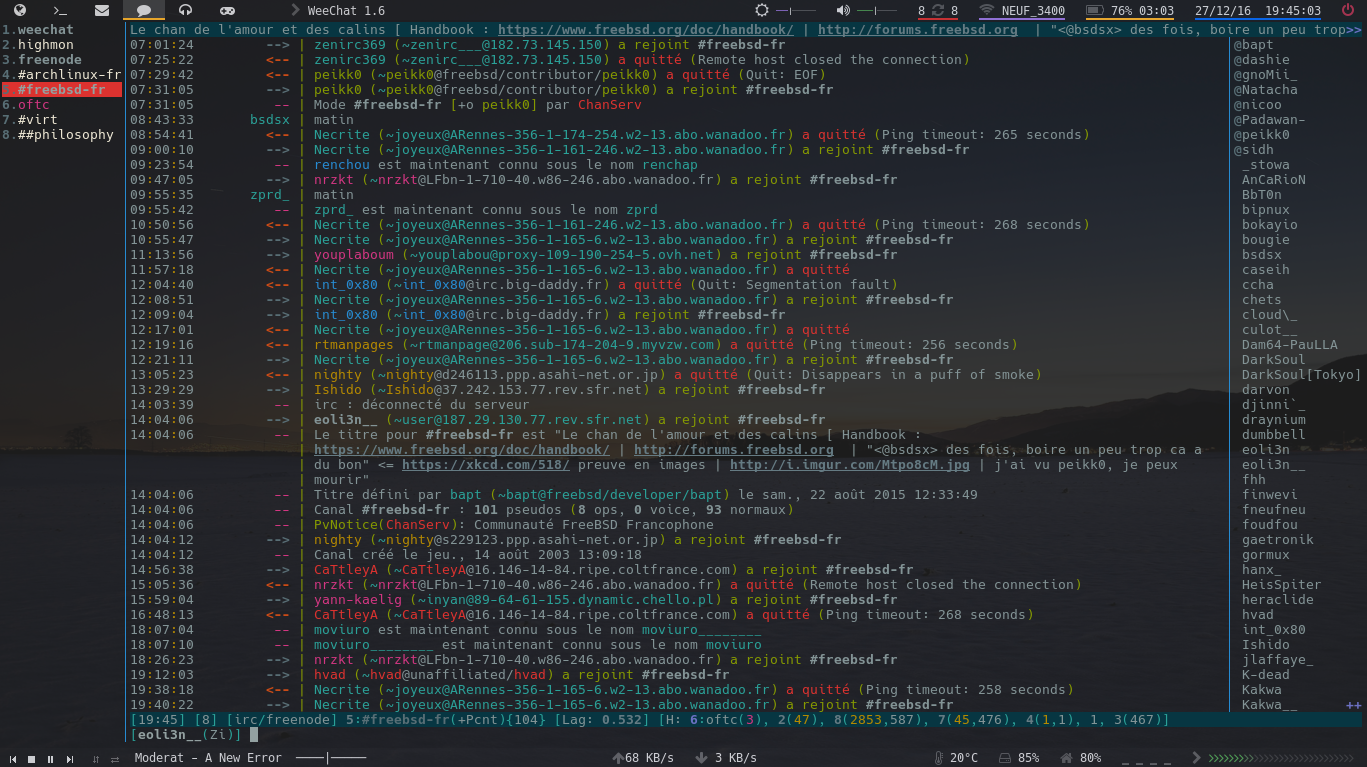
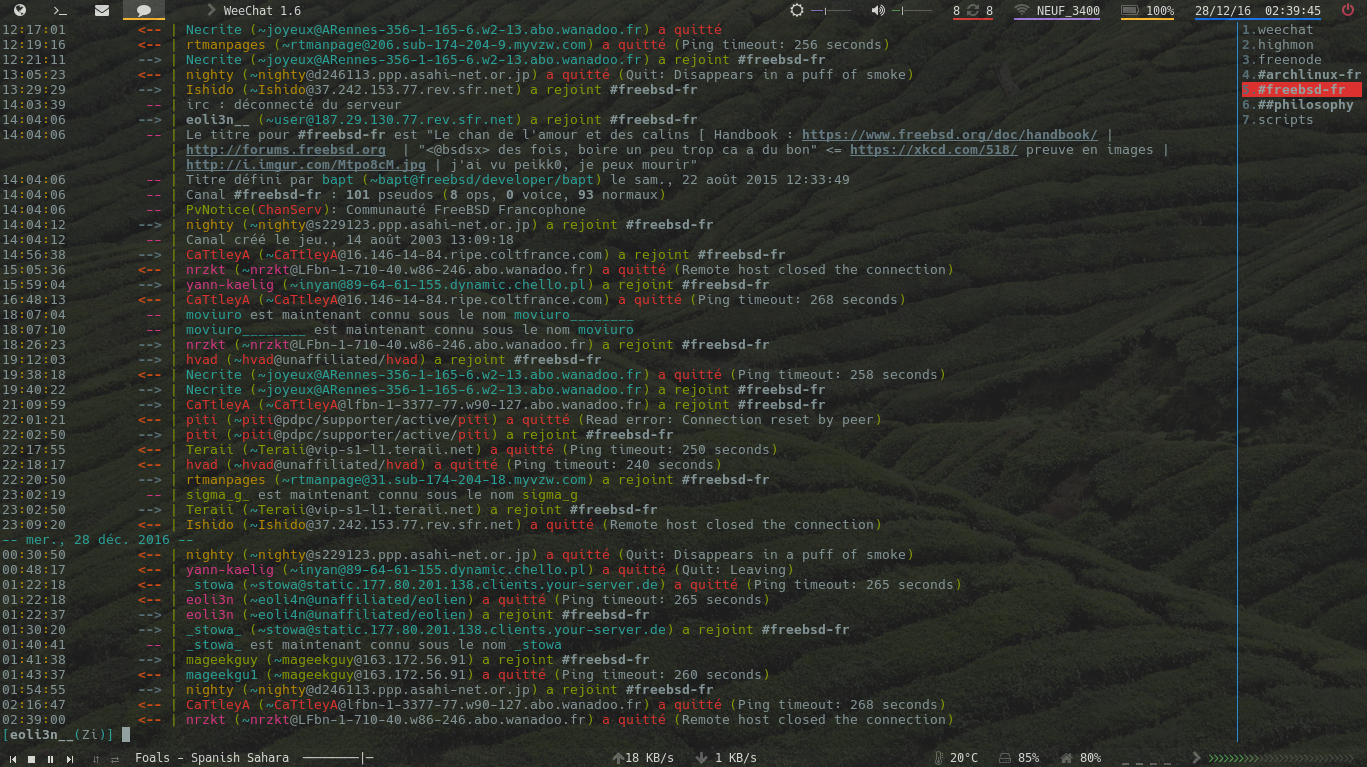
changed weechat screenshot and conf

Changed region(s): [[0.0, 0.0, 1.0, 1.0], [0.7374, 0.5698, 0.8603, 0.6297]]

diff --git a/README.md b/README.md
@@ -56,6 +56,10 @@ Connman
     /set weechat.color.chat_highlight_bg red
     /set weechat.color.chat_highlight black
     /script install colorize_nicks.py buffers.pl iset.pl highmon.pl
+    /bar toggle nicklist
+    /bar toggle title
+    /bar toggle status
+    /set weechat.bar.buffers.position right
 
 # Google-chrome hide toolbar
 
